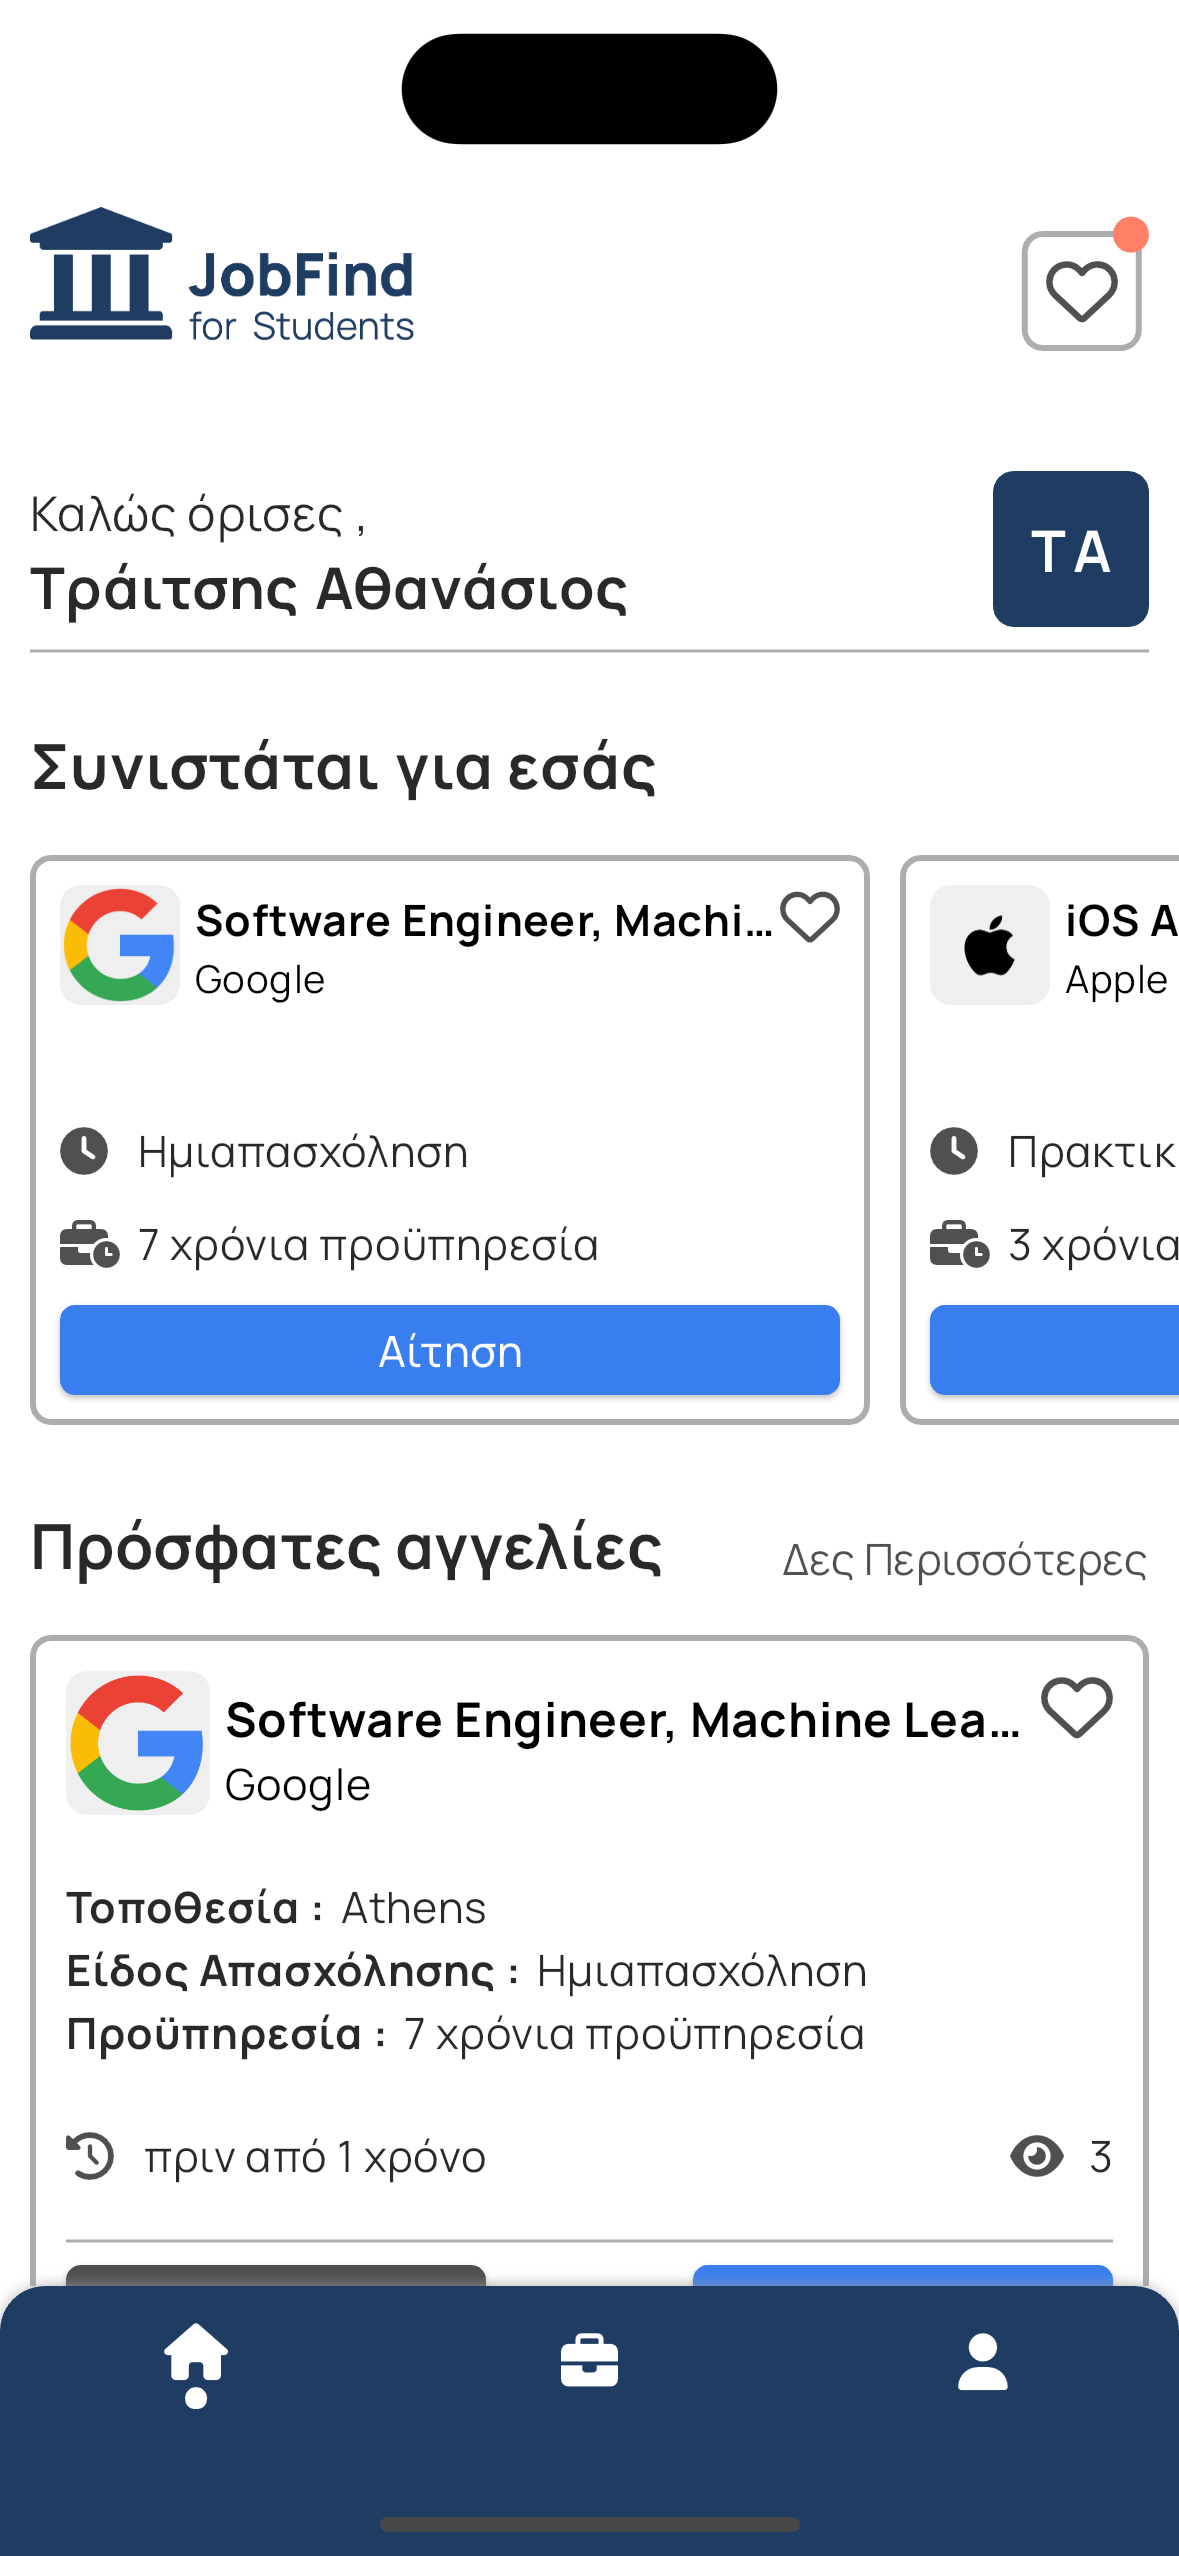
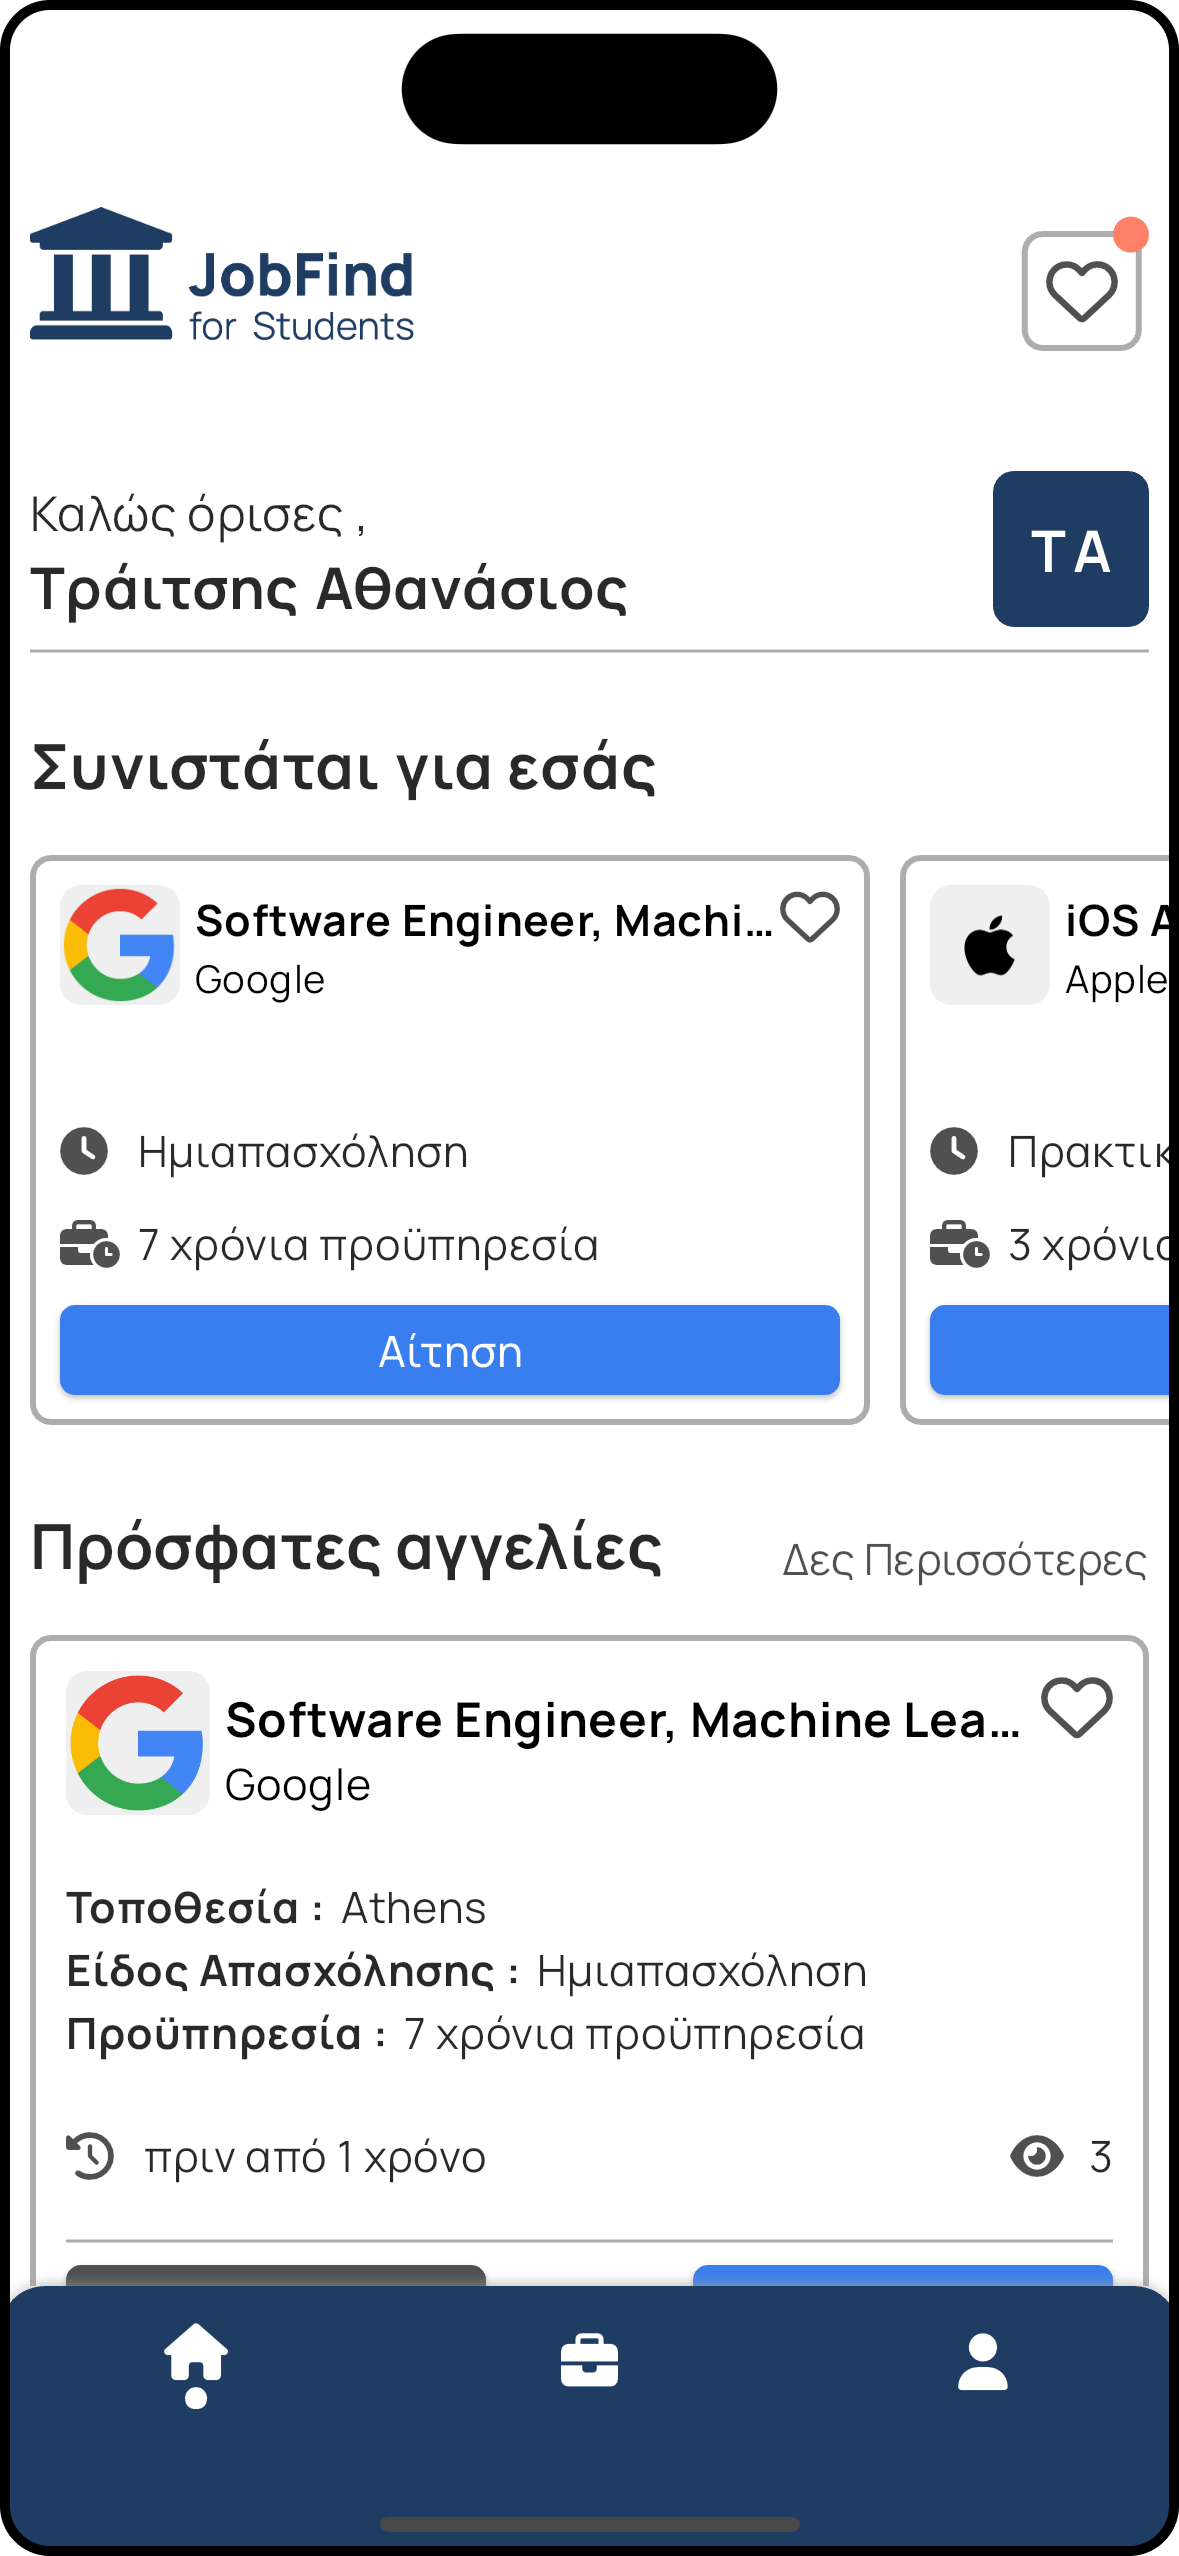
update readme

Changed region(s): [[0.0, 0.0, 1.0, 1.0]]

diff --git a/README.md b/README.md
@@ -28,7 +28,7 @@ Whether you're a student eager to kickstart your career or a company seeking top
 - **Profile Management**: Students can upload resumes, set profile images, and edit profile details.
 - **Company Dashboard**: Companies can view applicants for their job listings and download resumes.
 
-![Profile](https://github.com/Thanasis-Traitsis/jobfind_for_students/blob/main/assets/images/profile.png?raw=true)
+<img src="https://github.com/Thanasis-Traitsis/jobfind_for_students/blob/main/assets/images/profile.png?raw=true" alt="Profile" width="300" height="auto">
 
 ## Code base
 
